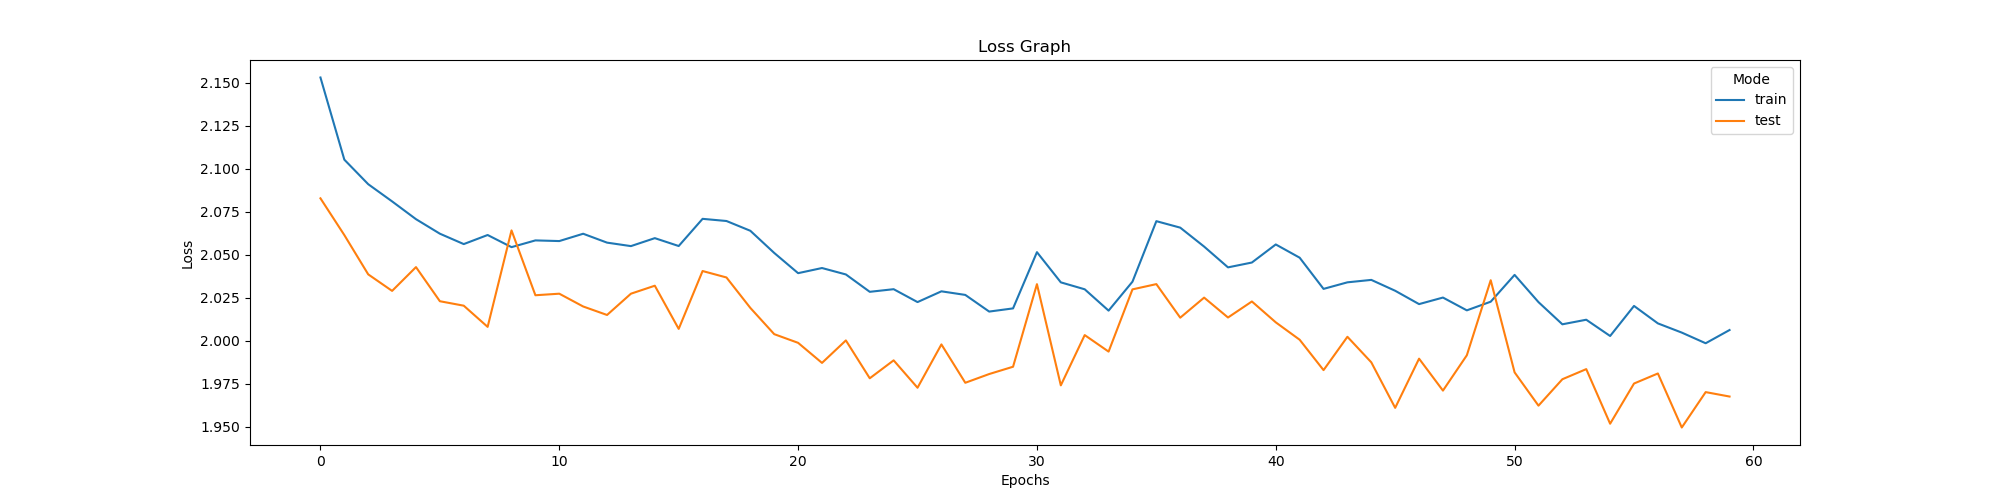
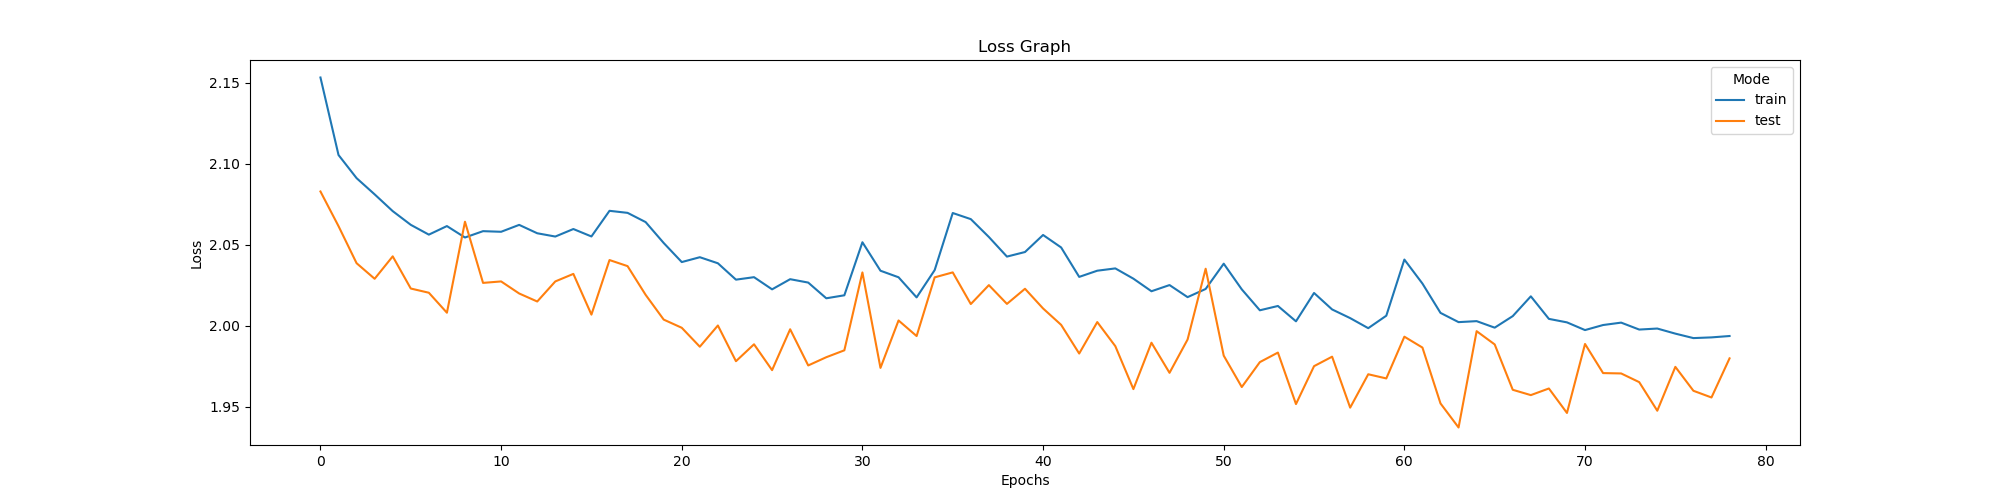
change cfg

diff --git a/train.py b/train.py
@@ -35,9 +35,11 @@ MODEL = VisionTransformer(image_height=cfg.IMAGE_HEIGHT,
                           feedforward_dropout_prob=cfg.FEEDFORWARD_DROPOUT_PROB,
                           device=DEVICE).to(DEVICE)
 
+
+
 CRITERION = nn.CrossEntropyLoss()
 OPTIMIZER = torch.optim.Adam(MODEL.parameters(), lr=cfg.LEARNING_RATE)
-# SCHEDULER = torch.optim.lr_scheduler.StepLR(OPTIMIZER, step_size=cfg.SCHEDULER_STEP_SIZE, gamma=cfg.SCHEDULER_GAMMA)
+SCHEDULER = torch.optim.lr_scheduler.StepLR(OPTIMIZER, step_size=cfg.SCHEDULER_STEP_SIZE, gamma=cfg.SCHEDULER_GAMMA)
 
 TRAIN_DATALOADER = LoadDeeplakeDataset(token=cred.ACTIVELOOP_TOKEN, deeplake_ds_name="hub://activeloop/animal10n-train", batch_size=cfg.BATCH_SIZE, shuffle=cfg.SHUFFLE)()
 TEST_DATALOADER = LoadDeeplakeDataset(token=cred.ACTIVELOOP_TOKEN, deeplake_ds_name="hub://activeloop/animal10n-test", batch_size=cfg.BATCH_SIZE, shuffle=False)()

diff --git a/train_multi_gpu.py b/train_multi_gpu.py
@@ -51,7 +51,7 @@ def main(gpu):
 
     CRITERION = nn.CrossEntropyLoss()
     OPTIMIZER = torch.optim.Adam(MODEL.parameters(), lr=cfg.LEARNING_RATE)
-    # SCHEDULER = torch.optim.lr_scheduler.StepLR(OPTIMIZER, step_size=cfg.SCHEDULER_STEP_SIZE, gamma=cfg.SCHEDULER_GAMMA)
+    SCHEDULER = torch.optim.lr_scheduler.StepLR(OPTIMIZER, step_size=cfg.SCHEDULER_STEP_SIZE, gamma=cfg.SCHEDULER_GAMMA)
 
 
 

diff --git a/cfg.py b/cfg.py
@@ -27,8 +27,8 @@ FEEDFORWARD_DROPOUT_PROB=0
 
 #TRAINING CONFIGURATIONS
 TRAIN_EPOCH=1000
-LEARNING_RATE=0.0001
-SCHEDULER_GAMMA=0.7
+LEARNING_RATE=0.01
+SCHEDULER_GAMMA=0.8
 SCHEDULER_STEP_SIZE=1
 
 
